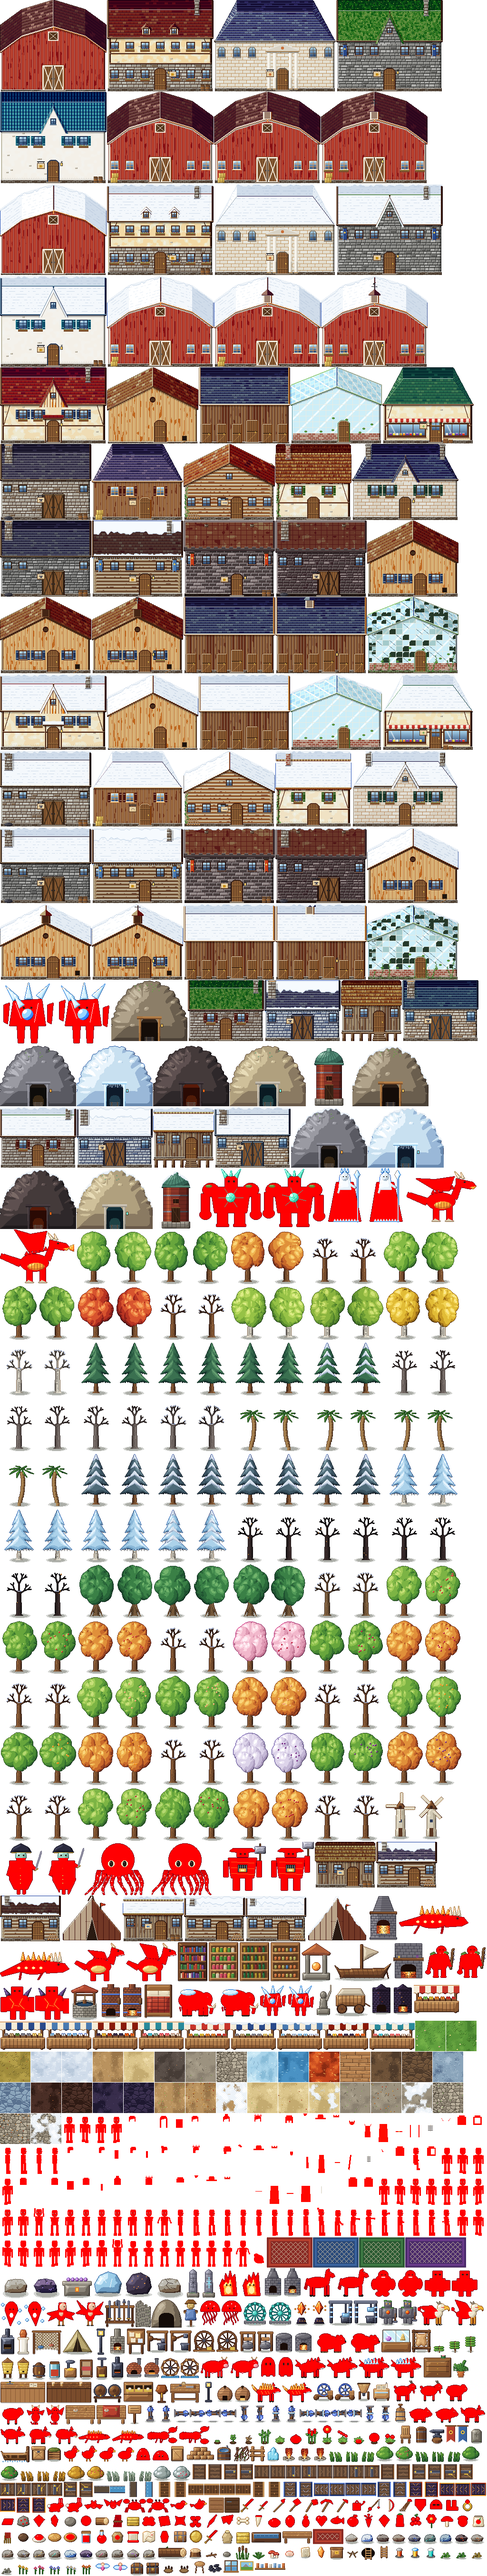
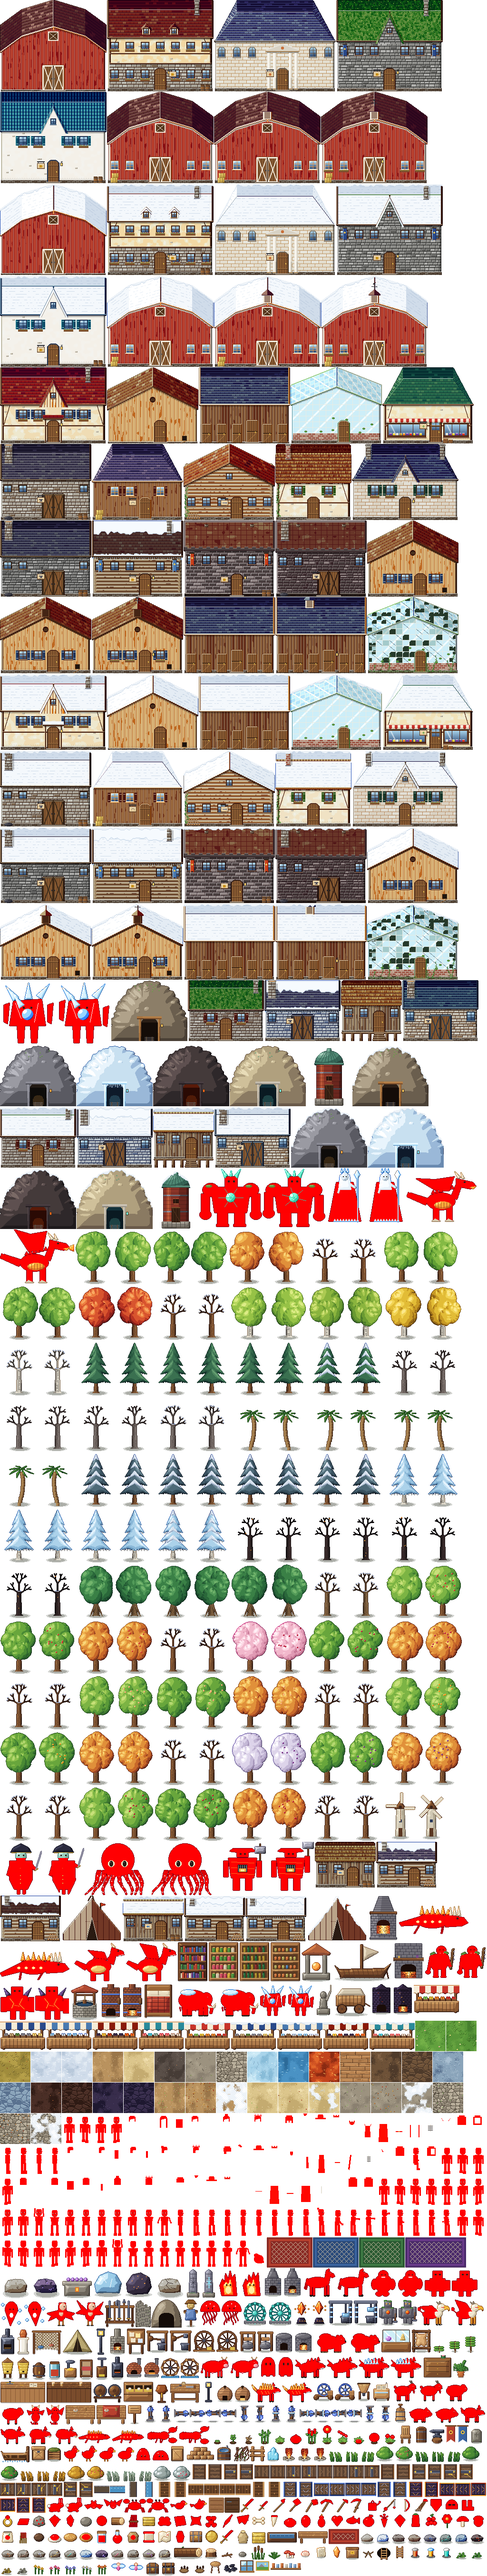
Scythe tool: fibre and hay from every cut, vegetable harvests, wider swaths per tier; better tools give more logs and ore; version 0.4.0

Changed region(s): [[0.0, 0.5931, 0.9375, 0.718], [0.0, 0.4682, 0.9375, 0.5307], [0.0, 0.9677, 1.0, 1.0]]

diff --git a/public/js/x_scythe.js b/public/js/x_scythe.js
@@ -1,0 +1,49 @@
+/* ================= The scythe =================
+   A new tool on the hotbar (key kind 'scythe', upgraded at Brann's like the others). Left click
+   sweeps the area in front of you: every weed and tuft of tall grass it cuts always gives one
+   fibre and one hay (hay goes into your silos while they have room, otherwise into the bag;
+   better scythes sometimes give an extra fibre), and every ripe crop it touches is harvested.
+   Vegetables, grains and field crops can only be harvested with the scythe; fruit and flowers
+   are still picked by hand. The swath grows with the tool: basic 1 tile, copper 3 wide,
+   iron 3x2, gold 5x2, mythril 5x3. Older saves get a scythe in a free (or the last) hotbar slot. */
+
+const SCYTHE_AREA = [null, [1, 1], [3, 1], [3, 2], [5, 2], [5, 3]]; // [width, depth] per tool level
+const needsScythe = C => !!C && (C.kind === 'veg' || C.kind === 'grain' || !!C.as);
+function scytheTiles(tx, ty, lvl) {
+  const [w, dep] = SCYTHE_AREA[Math.min(5, Math.max(1, lvl))], d = DIRV[S.p.dir], px = -d[1], py = d[0], out = [], h = (w - 1) / 2;
+  for (let i = 0; i < dep; i++) for (let j = -h; j <= h; j++) out.push([tx + d[0] * i + px * j, ty + d[1] * i + py * j]);
+  return out;
+}
+function scytheSwing(m, tx, ty, lvl) {
+  SFX.swing(); let fib = 0, hay = 0, silo = 0, crops = 0;
+  for (const [x, y] of scytheTiles(tx, ty, lvl)) {
+    if (!inb(m, x, y)) continue;
+    const o = getO(m, x, y), i = y * m.w + x, s = m.soil[i];
+    if (o && (o.k === 'weed' || o.k === 'tgrass')) {
+      setO(m, x, y, null); fib++; if (Math.random() < (lvl - 1) * .1) fib++;
+      if (S.build.silo && m.farm !== undefined && S.silo < 240 * S.build.silo) { S.silo++; silo++; } else hay++;
+      if (Math.random() < .015) dropItem(m, (x + .5) * 16, (y + .5) * 16, pickR(['herb', 'wild_leek', 'turnip_seed', 'wheat_seed']), 1);
+      for (let k = 0; k < 4; k++) PARTS.push({ x: (x + .5) * 16, y: (y + .6) * 16, vx: (Math.random() - .5) * 50, vy: -Math.random() * 50, t: .4, c: GRASS[Math.min(2, S.season)][0] });
+      continue;
+    }
+    if (s && s.crop) {
+      const C = CROPS[s.crop.k];
+      if (s.crop.dead) { s.crop = null; continue; }
+      if (C && s.crop.age >= C.d) { harvest(m, x, y); crops++; }
+    }
+  }
+  if (fib) give('fiber', fib); if (hay) give('hay', hay);
+  if (fib || silo || hay) { addXP('foraging', fib * .5); floatText(S.p.x, S.p.y - 30, '+' + fib + ' fibre, +' + (hay + silo) + ' hay' + (silo ? ' (silo)' : ''), '#e0c060'); noiseBurst(.07, .04, 2500); CHUNK.clear(); }
+  return fib + crops > 0;
+}
+
+/* older saves: give them the scythe */
+const _startGameSc = startGame;
+startGame = function (isNew) {
+  _startGameSc(isNew);
+  if (!S.tools.scythe) S.tools.scythe = 1;
+  if (!S.hot.includes('scythe')) {
+    let i = S.hot.indexOf(null); if (i < 0) for (let k = S.hot.length - 1; k >= 0; k--) if (!isTool(S.hot[k])) { i = k; break; }
+    if (i >= 0) { S.hot[i] = 'scythe'; hudKey = ''; toast('Hale left you a scythe: it\'s on your hotbar. Cut grass and weeds for fibre and hay, and harvest vegetables with it.', 'lvl'); }
+  }
+};

diff --git a/public/js/g_ui.js b/public/js/g_ui.js
@@ -203,7 +203,7 @@ function greet(b, id) {
   b.append(el('div', { class: 'greet f-panel' }, c, el('div', { class: 'rtxt' }, el('b', null, N.n + '  ', el('span', { class: 'hearts' }, '♥'.repeat(h) + '♡'.repeat(Math.max(0, 10 - h)))), el('p', null, '"' + line + '"')), el('button', { class: 'btn ghost' + (f.g === dayIndex() ? ' off' : ''), on: () => { if (f.g === dayIndex()) { toast('One gift a day is plenty.'); return; } openMenu('bag'); MODAL.title = 'Gift for ' + N.n; MODAL.opts.giftTo = id; drawModal(); } }, 'Give a gift')));
 }
 function talkNPC(id) { doorAction(NPCS[id].shop, id); }
-const TOOLN = { hoe: 'Hoe', can: 'Watering Can', axe: 'Axe', pick: 'Pickaxe', rod: 'Fishing Rod' };
+const TOOLN = { hoe: 'Hoe', can: 'Watering Can', axe: 'Axe', pick: 'Pickaxe', scythe: 'Scythe', rod: 'Fishing Rod' };
 const UPC = [null, null, ['copper_bar', 5, 500], ['iron_bar', 5, 1500], ['gold_bar', 5, 4000], ['mythril_bar', 5, 10000]];
 function doorAction(act, who) {
   const G = (id) => (b) => { if (who || id) greet(b, who || id); };
@@ -221,7 +221,7 @@ function doorAction(act, who) {
   if (act === 'fisher') return openModal('Corwin\'s Hut', [{ id: 's', label: 'Sell fish', render: b => { G('corwin')(b); b.append(el('p', { class: 'note' }, 'Corwin pays 10% over the odds for anything with fins.')); sellList(b, 'fisher', id => IT[id].t === 'fish'); } }, { id: 'buy', label: 'Tackle', render: b => { const L = el('div', { class: 'list' }); [['treasure_map', 800], ['sushi', 500], ['smoker', 1500], ['clam', 120]].forEach(([id, p]) => L.append(buyRow(id, p))); b.append(L); } }]);
 }
 function renderUpgrades(b) {
-  b.append(el('p', { class: 'note' }, 'Better tools hit harder and break tougher blockers. Iron hoes and cans cover a line of three, gold a 3×3, mythril even more. Better rods widen the catch zone; iron rods can fish lava.'));
+  b.append(el('p', { class: 'note' }, 'Better axes and pickaxes work faster, give more logs and ore (an extra one 10% of the time per upgrade) and break tougher rocks and stumps. Better scythes cut a wider swath: copper 3 wide, iron 3×2, gold 5×2, mythril 5×3. Iron hoes and cans cover a line of three, gold a 3×3, mythril even more. Better rods widen the catch zone; iron rods can fish lava.'));
   const L = el('div', { class: 'list' });
   for (const t in TOOLN) { const l = S.tools[t], nx = l + 1, c = UPC[nx]; const disc = hasPerk('tinker') ? .5 : 1;
     const row = el('div', { class: 'rrow' }, icon('tool:' + t + ':' + l, 32), el('div', { class: 'rtxt' }, el('b', null, TIER_TOOL[l] + ' ' + TOOLN[t]), el('small', null, c ? 'Upgrade to ' + TIER_TOOL[nx] + ': ' + Math.round(c[2] * disc) + 'g and ' + Math.ceil(c[1] * disc) + ' ' + IT[c[0]].n + 's (you have ' + cnt(c[0]) + ').' : 'Fully upgraded.')));

diff --git a/public/js/e_play.js b/public/js/e_play.js
@@ -77,7 +77,7 @@ function areaTiles(tx, ty, lvl) {
   return out;
 }
 const selKind = () => S.hot[S.sel];
-const isTool = k => ['hoe', 'can', 'axe', 'pick', 'rod', 'weapon'].includes(k);
+const isTool = k => ['hoe', 'can', 'axe', 'pick', 'rod', 'scythe', 'weapon'].includes(k);
 /* ---- interactions ---- */
 function findInteract() {
   const m = cur, [tx, ty] = faceTile(), [fx, fy] = facePt();
@@ -90,7 +90,7 @@ function findInteract() {
     const r = objInteract(m, x, y, o); if (r) return r;
   }
   const s = m.soil[ty * m.w + tx];
-  if (s && s.crop) { const C = CROPS[s.crop.k]; if (s.crop.dead) return { label: 'Clear', fn: () => { s.crop = null; } }; if (s.crop.age >= C.d) return { label: 'Harvest', fn: () => harvest(m, tx, ty) }; }
+  if (s && s.crop) { const C = CROPS[s.crop.k]; if (s.crop.dead) return { label: 'Clear', fn: () => { s.crop = null; } }; if (s.crop.age >= C.d) return needsScythe(C) ? { label: 'Use scythe', fn: () => toast('Cut ' + C.n.toLowerCase() + ' with your scythe (left click with it selected).') } : { label: 'Harvest', fn: () => harvest(m, tx, ty) }; }
   const t = getT(m, tx, ty), k = selKind();
   if (TER[t].water && k === 'can') return { label: 'Refill', fn: useTool };
   if ((TER[t].water || TER[t].lava) && k === 'rod') return { label: 'Cast', fn: useTool };
@@ -137,8 +137,9 @@ function useTool() {
   if (k === 'weapon') { attack(); return; }
   if (!isTool(k)) { useItem(k); return; }
   if (S.p.st <= 0 && k !== 'rod') { toast('Too tired to work. Eat or sleep.', 'bad'); SFX.bad(); return; }
-  const lvl = S.tools[k] || 1, cost = b => Math.max(.5, b - (S.sk[{ hoe: 'farming', can: 'farming', axe: 'woodcutting', pick: 'mining', rod: 'fishing' }[k]].l - 1) * .15);
+  const lvl = S.tools[k] || 1, cost = b => Math.max(.5, b - (S.sk[{ hoe: 'farming', can: 'farming', axe: 'woodcutting', pick: 'mining', rod: 'fishing', scythe: 'farming' }[k]].l - 1) * .15);
   const [ax, ay, o] = mainOf(m, tx, ty), t = getT(m, tx, ty);
+  if (k === 'scythe') { if (scytheSwing(m, tx, ty, lvl)) useStamina(cost(1)); return; }
   if (o && (o.k === 'weed' || o.k === 'tgrass')) { cutGrass(m, ax, ay, o); return; }
   if (k === 'hoe') {
     if (o && o.k === 'dig') { digSpot(m, ax, ay); useStamina(cost(2)); return; }

diff --git a/public/js/d_world.js b/public/js/d_world.js
@@ -10,9 +10,9 @@ function newState(seed) {
   return {
     v: 2, seed: seed || (Math.floor(Math.random() * 1e9) | 1), day: 1, season: 0, year: 1, time: 360, weather: 'sun', gold: 500,
     p: { map: 'farm', x: 9.5 * 16, y: 10.5 * 16, dir: 0, hp: 100, st: 120 },
-    inv: { turnip_seed: 15, potato_seed: 5, wood: 15, arrow: 0 }, invQ: {}, hot: ['hoe', 'can', 'axe', 'pick', 'rod', 'weapon', 'turnip_seed', 'potato_seed', null, null], sel: 0,
+    inv: { turnip_seed: 15, potato_seed: 5, wood: 15, arrow: 0 }, invQ: {}, hot: ['hoe', 'can', 'axe', 'pick', 'rod', 'scythe', 'weapon', 'turnip_seed', 'potato_seed', null], sel: 0,
     eq: { weapon: 'wood_sword', helm: null, body: null, boots: null, shield: null, ring1: null, ring2: null },
-    tools: { hoe: 1, can: 1, axe: 1, pick: 1, rod: 1 }, water: 20, sk, perks: {}, pendingPerk: [],
+    tools: { hoe: 1, can: 1, axe: 1, pick: 1, rod: 1, scythe: 1 }, water: 20, sk, perks: {}, pendingPerk: [],
     animals: [], nid: 1, rideId: null, mounted: false,
     stats: { harvest: 0, bought: 0, deepest: 0, fish: 0, forged: {}, bestBred: 0, cupMax: 0, kills: 0, crafted: 0, traitBred: 0, shipped: {}, caught: {}, randShards: 0 },
     qdone: {}, board: null, bin: {}, horseShop: [], buffs: [], build: { coop: 1, barn: 1, stable: 1, silo: 0, greenhouse: 0 }, silo: 0,

diff --git a/public/js/y_anim.js b/public/js/y_anim.js
@@ -47,6 +47,7 @@ function playerAction() {
       const ic = itemIcon('tool:' + tl + ':' + (S.tools[tl] || 1));
       if (tl === 'can') { if (Math.random() < .5) { const [fx, fy] = facePt(); PARTS.push({ x: fx + (Math.random() - .5) * 6, y: fy - 4, vx: 0, vy: 30, t: .25, c: '#7ac8f0' }); } return { pose: 'pour', item: ic, ang: base + .9 * side, size: 12 }; }
       if (tl === 'rod') return { pose: t < .4 ? 'wind' : 'cast', item: ic, ang: t < .4 ? base - 2.4 * side : lerpc(base - 1.6 * side, base - .4 * side, (t - .4) / .3), size: 14 };
+      if (tl === 'scythe') return { pose: t < .3 ? 'wind' : 'strike', item: ic, ang: t < .3 ? base - 2.2 * side : lerpc(base - 2 * side, base + 1.4 * side, (t - .3) / .4), size: 15 }; // a low sweep
       const low = tl === 'hoe' ? .9 : .4; // axe, pickaxe, hoe, hammering: overhead, then down
       return { pose: t < .45 ? 'wind' : 'strike', item: ic, ang: t < .45 ? base - 2.4 * side : lerpc(base - 1.8 * side, base + low * side, (t - .45) / .25), size: 13 };
     }

diff --git a/public/js/x_sandbox.js b/public/js/x_sandbox.js
@@ -41,7 +41,7 @@ function setupSandbox() {
   S.gold = 1000000; S.autoTier = 5; S.flags = S.flags || {}; S.flags.wb = 1; S.look = Object.assign({}, DEFAULT_LOOK, S.look || {}, { name: 'Tester' });
   ensureLife(); for (const k of SK) if (S.sk[k]) { S.sk[k].tx = XPT[75]; S.sk[k].L = 75; S.sk[k].l = 8; }
   ensureCombat(); for (const c in S.csk) S.csk[c].xp = XPT[60];
-  S.tools = { hoe: 5, can: 5, axe: 5, pick: 5, rod: 5 };
+  S.tools = { hoe: 5, can: 5, axe: 5, pick: 5, rod: 5, scythe: 5 };
   // a cleared yard south of the tent
   const X0 = 12, X1 = 46, Y0 = 13, Y1 = 30;
   for (let y = Y0; y <= Y1; y++) for (let x = X0; x <= X1; x++) { if (!inb(m, x, y) || m.solidB[y * m.w + x]) continue; if (getO(m, x, y)) delObj(m, x, y); delete m.soil[y * m.w + x]; if (TER[getT(m, x, y)].solid || TER[getT(m, x, y)].water) continue; setT(m, x, y, 'g'); }

diff --git a/public/js/o_skills.js b/public/js/o_skills.js
@@ -170,6 +170,7 @@ function gatherTick() {
   if (Math.random() > chance) return;
   const [id] = D.drop[0], units = Math.max(1, G.o.left);
   let n = 1; if (Math.random() < perkCount(G.skill, 'bounty') * .06 || (id === 'wood' && hasPerk('forester') && Math.random() < .12)) n = 2;
+  if (Math.random() < ((S.tools[G.k] || 1) - 1) * .1) n++; // better tools: an extra log or ore 10% of the time per upgrade
   give(id, n); if (D.xp) addXP(D.xp[0], D.xp[1] / (G.o.total || (G.o.total = units)));
   if (--G.o.left > 0) return;
   // depleted: run the original break-up for its extras (hardwood, sap, ladders, stumps...) without the main drop or XP again

diff --git a/index.html b/index.html
@@ -230,5 +230,6 @@ h3{margin:12px 0 6px;font:700 17px Cinzel,serif}
 <script src="js/x_blueprints.js"></script>
 <script src="js/x_ency.js"></script>
 <script src="js/x_tree.js"></script>
+<script src="js/x_scythe.js"></script>
 <script src="js/z_main.js"></script>
 </body></html>

diff --git a/art/sprites/icons.py b/art/sprites/icons.py
@@ -84,6 +84,12 @@ def shapes():
     def _():
         s = I(); handle(s, 6, 29, 22, 6); blob(s, poly([(18, 4), (28, 6), (28, 12), (24, 10)])); return fin(s)
 
+    @reg('scythe')
+    def _():
+        s = I(); handle(s, 8, 30, 20, 5); s.fill(line(11, 20, 16, 21) | line(11, 21, 16, 22), WOOD[1])  # snath and grip
+        blob(s, poly([(22, 4), (14, 3), (7, 5), (2, 11), (8, 8), (14, 7), (22, 8)]))
+        s.fill(line(21, 4, 13, 4) | line(13, 4, 6, 7), C(0)[3]); return fin(s)
+
     @reg('can')
     def _():
         s = I(); blob(s, rect(6, 12, 16, 15), 0); s.fill(line(22, 16, 29, 10) | line(22, 17, 29, 11), C(0)[1])

diff --git a/docs/HOW_TO_PLAY.md b/docs/HOW_TO_PLAY.md
@@ -52,12 +52,13 @@ You face the mouse. A dashed square shows the tile your next action hits. You ca
 ### Your first crops
 1. Walk **east** off the farm to the village and buy seeds at **Mara's General Store**.
 2. Use the **hoe** on grass-free ground to till it, **plant** the seeds, then **water** them with the watering can every day.
-3. When a crop is ripe, harvest it with **right click**.
+3. When a crop is ripe, cut vegetables and grain with the **scythe** (left click). Pick fruit and flowers with **right click**.
 4. Sell things in the **shipping bin** on your farm (paid overnight) or in shops.
 
 ### Clearing and gathering
 - **Axe** on trees gives logs, **pickaxe** on rocks gives stone and ore. You keep chopping or mining automatically until the tree or rock is used up. Walking away stops it.
-- Weeds, sticks and stones on the farm clear with your tools: the axe for wood, the pickaxe for stone, the hoe or a weapon for weeds.
+- Weeds, sticks and stones on the farm clear with your tools: the axe for wood, the pickaxe for stone, the **scythe** for weeds and tall grass. Every weed or tuft the scythe cuts gives a fibre and a hay.
+- **Upgrade tools** at Brann's: axes and pickaxes work faster and give more logs and ore, scythes cut a wider area, hoes and cans cover more tiles.
 - If you're knocked out, or still awake at 2:00, you lose 10% of your gold (at most 2,500).
 
 ## 5. Crafting
@@ -120,7 +121,6 @@ Walk up to a station and interact. Pick a recipe and press **Make**, or **×5 / 
 ## 11. Tips
 
 - Read tooltips: hover over hotbar slots and items.
-- Upgrade your tools at **Brann's** smithy. Better tools work faster.
 - Build **automation** (belts, smelters, mills) once you have Hale's plans, and your farm keeps working while you explore.
 
 ## Found a bug?

diff --git a/CLAUDE.md b/CLAUDE.md
@@ -217,6 +217,10 @@ The rider uses a seated pose (`hb_ride_2` in `human.py`, `humanSpr(..., 'ride')`
 - **Passive tree** is redrawn to fit its window and has a fourth branch, **Life** (`LTREE`, `S.tree.life`): energy, tool energy savings, life-skill XP, extra harvests, sell prices, speed. Life points = life-skill levels gained / 8, separate from combat points.
 - **Quests** are on the 1-99 scale: "Master of Emberhollow" is now every life skill 60 (40,000g), plus milestone quests appended in `t_balance.js` (indices are kept because `S.qdone` is by index).
 
+## Scythe and tool upgrades (`public/js/x_scythe.js`)
+- The scythe is a hotbar tool (`S.tools.scythe`, `isTool`, `TOOLN`, icon `ic_scythe`, a low sweep in `y_anim`). One swing covers `SCYTHE_AREA[level]` in front of you (1, 3, 3x2, 5x2, 5x3): every weed or tall grass gives 1 fibre and 1 hay (into the silos while they have room), and ripe crops in the swath are harvested. Vegetables, grains and field crops (`needsScythe`) can only be harvested with it; fruit and flowers by hand. Older saves get it on the hotbar.
+- Tool upgrades: axes and pickaxes gather faster (+7% success per level) and give an extra log or ore 10% of the time per upgrade (`gatherTick` in `o_skills.js`); hoes and cans cover more tiles; rods widen the catch zone.
+
 ## Building the desktop app
 - `npm run build` then `npx electron-builder --win` (or `npm run dist`) writes `release/Emberhollow-setup-<version>.exe` (installer) and `release/Emberhollow-portable-<version>.exe` (runs without installing). `release/` and `dist/` are not committed.
 
